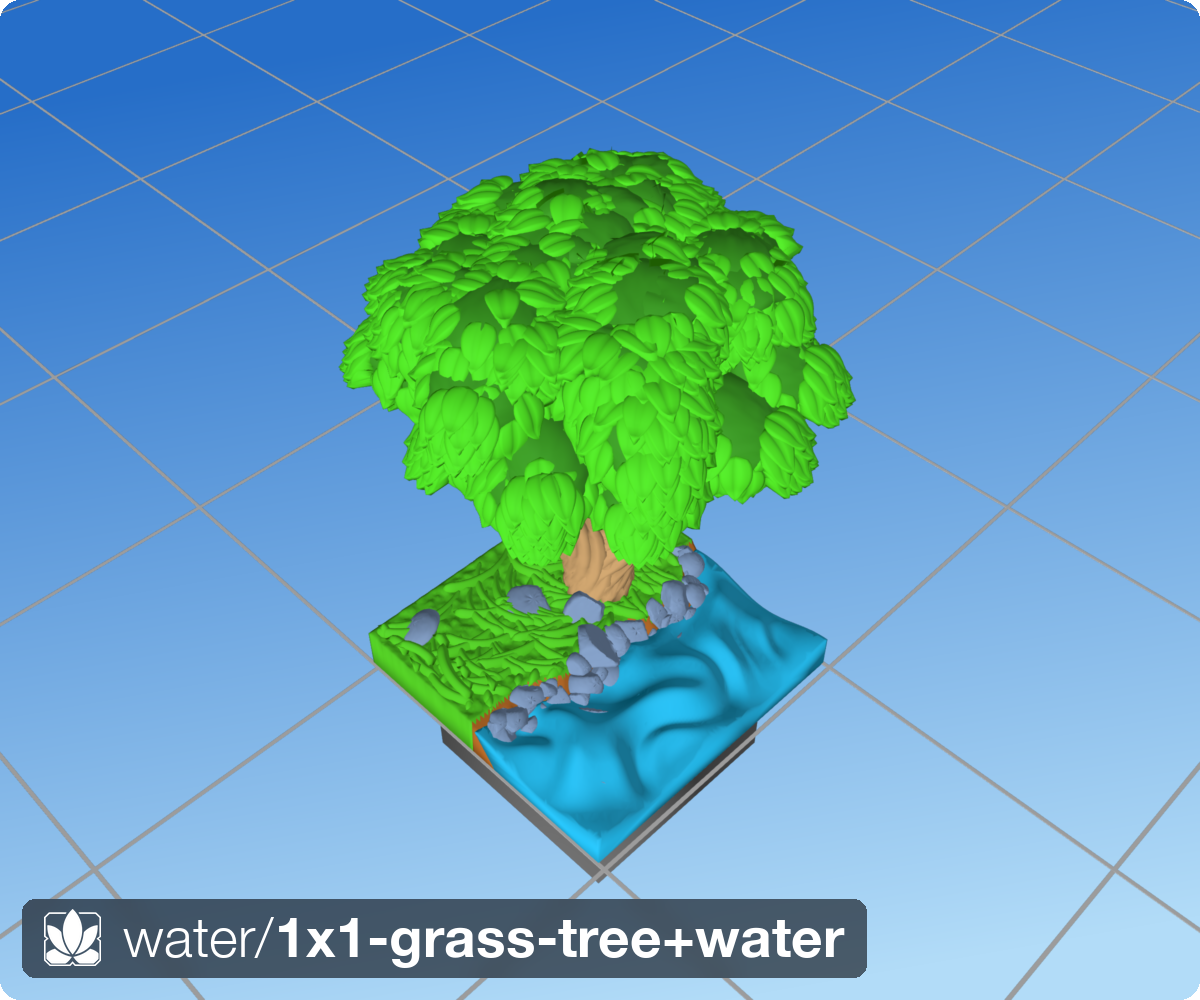
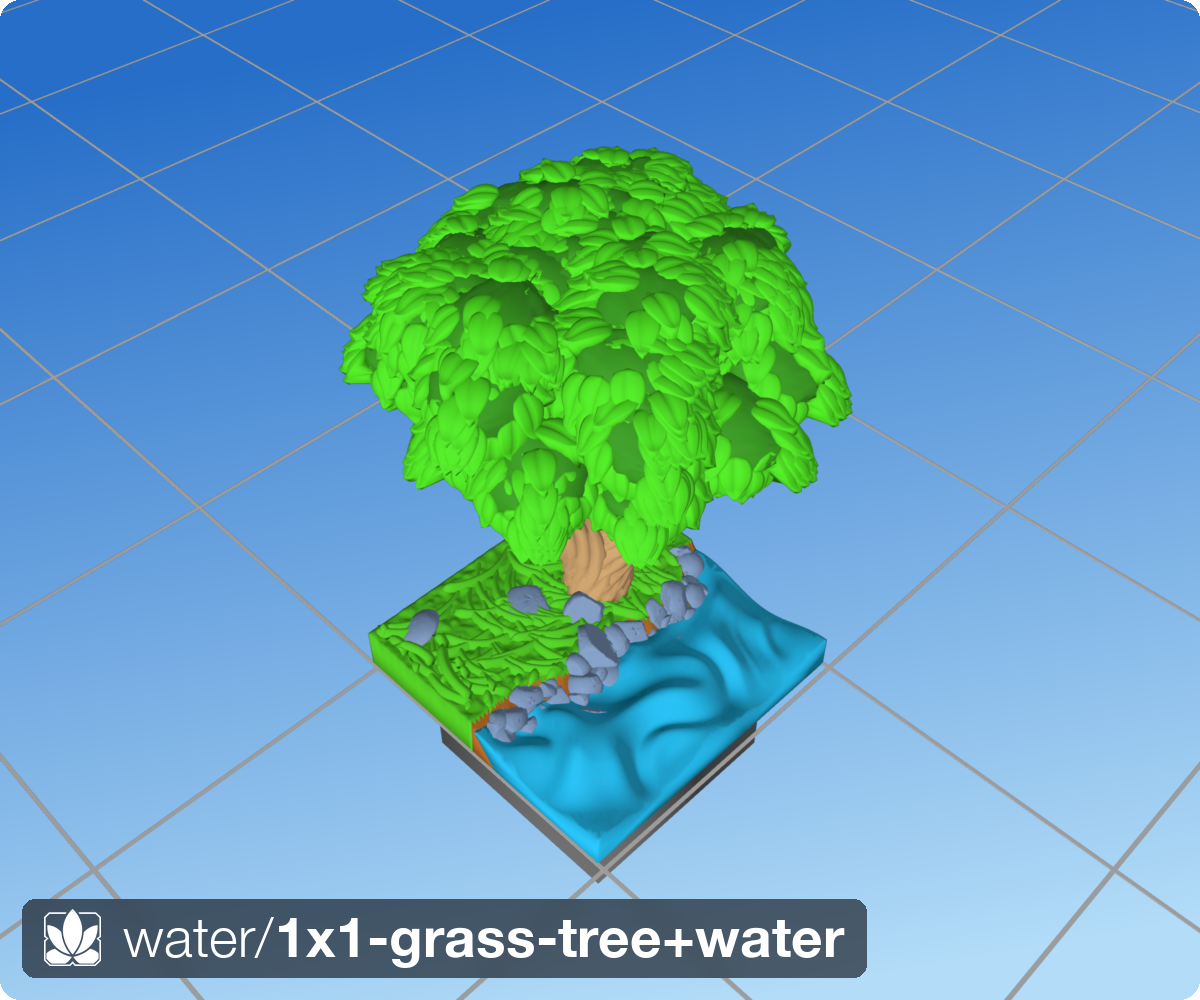
trees: fix apex over-coverage and add leaf-count diagnostic
- Reduce world-top supplemental leaf count from 20× to 1× leaf_cap_count
  (the main grid already covers the full circumference; the heavy multiplier
  was adding redundant leaves at the apex instead of filling gaps)
- Narrow structured cap leaf band from [0.70, 0.98] to [0.94, 0.98] so the
  cap covers only the true apex zone above near-apex rings and the main grid
- Cap per-ring column count by the natural circumference/col_step count to
  avoid over-packing near the apex where the ring radius is very small
- Add RuntimeWarning diagnostic when a foliage cluster generates < 3 leaves,
  to catch future coverage regressions early
- Update 1x1-grass-tree+water.png render

Changed region(s): [[0.2775, 0.124, 0.7092, 0.558]]

diff --git a/src/dharmatiles/trees/mesh.py b/src/dharmatiles/trees/mesh.py
@@ -1210,8 +1210,10 @@ def _build_foliage_cluster_mesh(
         # World-up crest fill.  Terminal foliage clumps are usually tilted,
         # while leaves droop toward world -Z; the visible top can be far from
         # the branch-axis dome pole, so it needs its own supplemental pass.
+        # Count is leaf_cap_count (not 20×) — the main grid already covers the
+        # full circumference, so only a light supplemental is needed here.
         top_angles = _structured_world_top_leaf_angles(
-            20 * max(0, int(leaf_cap_count)),
+            max(0, int(leaf_cap_count)),
             arc_lo=arc_lo,
             arc_hi=arc_hi,
             cone_end_arc=cone_end_arc,
@@ -1261,6 +1263,22 @@ def _build_foliage_cluster_mesh(
                 cluster_radius_mm=cluster_radius,
             )
 
+    # ── Leaf-count diagnostic ─────────────────────────────────────────────────
+    # Warn if a cluster that was supposed to emit leaves ends up with very few.
+    # A count < 3 on a non-trivial cluster is a signal of a coverage regression
+    # (bare-spot risk).  Use this to catch any future changes that thin the leaf
+    # passes too aggressively.
+    if leaves and leaf_base_count > 0 and leaf_length_mm > 1e-6 and leaf_width_mm > 1e-6:
+        if len(leaf_parts) < 3:
+            warnings.warn(
+                f"Foliage cluster edge_id={edge_id} generated only "
+                f"{len(leaf_parts)} leaf(ves) — possible bare-spot regression. "
+                f"(r_tip={r_tip:.2f} mm, clump_length={clump_length_mm:.1f} mm, "
+                f"leaf_cap_count={leaf_cap_count})",
+                RuntimeWarning,
+                stacklevel=2,
+            )
+
     result = trimesh.Trimesh(vertices=verts, faces=ico.faces.copy(), process=False)
     result.fix_normals()
     return result, leaf_parts
@@ -1279,9 +1297,10 @@ def _structured_cap_leaf_angles(
     """Return deterministic jittered-ring cap positions as ``(idx, phi, theta)``.
 
     ``phi`` is the forward-dome polar angle used by ``_dome_point`` where
-    ``pi/2`` is the apex.  The cap covers the same top 30% polar band as the
-    previous random sampler, but each leaf now owns a row/column cell and jitter
-    is clamped so it cannot cross into a neighbour's cell.
+    ``pi/2`` is the apex.  The cap covers the top 6% polar band [0.94, 0.98]·π/2 —
+    the true apex zone above the near-apex rings (0.86, 0.93) and the main grid
+    (whose last row center lands at phi≈0.72).  Each leaf owns a row/column cell
+    and jitter is clamped so it cannot cross into a neighbour's cell.
     """
     count = int(count)
     if count <= 0:
@@ -1290,7 +1309,12 @@ def _structured_cap_leaf_angles(
     r_tip = max(float(r_tip), 1e-6)
     pj = max(0.0, float(pos_jitter))
 
-    phi_min = 0.70 * (np.pi / 2.0)
+    # phi_min is set to 0.94 (not 0.70) so the cap covers only the true apex
+    # zone above the near-apex rings (phi=0.86, 0.93) and the main grid (whose
+    # last row center lands at phi≈0.72).  The old 0.70 start caused the cap
+    # to overlap both the main grid and the near-apex rings, adding redundant
+    # leaves in zones that are already covered.
+    phi_min = 0.94 * (np.pi / 2.0)
     phi_max = 0.98 * (np.pi / 2.0)
     band = phi_max - phi_min
 
@@ -1324,6 +1348,12 @@ def _structured_cap_leaf_angles(
 
     for ri, (phi_center, n_col) in enumerate(zip(row_phis, cols)):
         n_col = int(n_col)
+        # Cap n_col by the natural circumference/col_step count so we never
+        # pack leaves tighter than the h_overlap parameter implies, even when
+        # the ring radius is very small (near the apex).
+        rr_ring = max(float(r_tip) * float(np.cos(phi_center)), 1e-6)
+        natural_n_col = max(1, int(np.ceil(2.0 * np.pi * rr_ring / max(float(col_step), 1e-6))))
+        n_col = min(n_col, natural_n_col)
         theta_step = 2.0 * np.pi / n_col
         max_theta_jit = 0.45 * theta_step
         requested_theta_jit = pj * float(col_step) / max(r_tip * np.cos(phi_center), 1e-6)

diff --git a/docs/browser-python-viability.md b/docs/browser-python-viability.md
@@ -1,0 +1,171 @@
+# Browser-Based Python App Viability
+
+*Design exploration — 2026-06-24*
+
+## The Core Question
+
+Can dharmatiles (or a future project like it) be delivered as a web page that runs Python locally in the user's browser — no server, no install, just visit a URL?
+
+Short answer: **partially viable for dharmatiles today; fully viable for a new project designed for it.** The limiting factor is `manifold3d` and, to a lesser extent, `trimesh`.
+
+---
+
+## Technology Landscape
+
+### Pyodide
+
+CPython compiled to WebAssembly. Ships a curated package set (~250+ packages) that includes:
+
+- `numpy` ✓
+- `scipy` ✓
+- `Pillow` ✓
+- `pyyaml` ✓ (pure Python, loads fine)
+- `rich` ✓ (pure Python, terminal output would be suppressed in-browser anyway)
+
+Pyodide is the most mature approach and the one to default to. PyScript is a higher-level wrapper around Pyodide; it doesn't add capability, just ergonomics.
+
+### WebAssembly Constraints
+
+The browser sandbox limits what Python can do:
+
+- No OS-level filesystem. Files live in an in-memory virtual FS (Emscripten). The File System Access API (Chrome only) lets users grant folder access that gets mounted into that virtual FS.
+- No threads by default. `SharedArrayBuffer` (needed for real threads) requires COOP/COEP HTTP headers. Pyodide supports it if the server sets those headers, but most static hosts don't.
+- No subprocess. Can't call `openscad`, `prusa-slicer`, or any external binary.
+- Memory cap. Browser tabs get ~2–4 GB in practice. Large STL operations are fine; huge terrain grids might hit limits.
+
+---
+
+## Dharmatiles Dependency Audit
+
+| Package | Pyodide | Notes |
+|---|---|---|
+| `numpy` | ✓ | Core. Works fully. |
+| `scipy` | ✓ | Voronoi, spatial trees — all fine. |
+| `Pillow` | ✓ | Not heavily used; no issue. |
+| `pyyaml` | ✓ | No issue. |
+| `rich` | ✓ | Terminal colors will be no-ops; that's fine. |
+| `trimesh` | ✗ | **Not in Pyodide's package list.** Uses optional C extensions (rtree, pyembree) but the base install is mostly pure Python + numpy. May be loadable via micropip if a pure-Python-compatible wheel exists, or a vendored subset could be written. |
+| `manifold3d` | ✗ | **Hard blocker.** Native C++ extension, no WASM build exists. Used for OpenLOCK base CSG and the logo inset. |
+
+### What Works Without Those Two
+
+The entire core generation pipeline is pure Python + numpy + scipy:
+
+- Heightmap construction (`core/mesh.py`, `core/region.py`, `core/grid.py`)
+- Soil, grass carpet, water texture layers (`layers/`)
+- 3D grass field simulation (`grass/`)
+- Rock scatter (`scatter/`)
+- Tree skeleton + mesh (`trees/`)
+- DungeonBlocks base (`bases/dungeonblocks.py` — no manifold3d)
+
+The heightmap solid (`make_heightmap_solid`) produces a plain numpy mesh, which is then assembled via trimesh and exported. If trimesh is unavailable, you'd need a fallback STL writer — but writing binary STL from numpy arrays is trivial (~20 lines).
+
+**What breaks without manifold3d:**
+- OpenLOCK base (T-slot CSG)
+- Logo inset into the base
+
+**What breaks without trimesh:**
+- Mesh boolean operations (if used)
+- The trimesh.Trimesh assembly and STL export
+
+The trimesh dependency is softer: STL export is just packing numpy float32/int32 arrays into a 84-byte header + face records. A minimal in-browser STL writer could replace it.
+
+---
+
+## Architecture Options
+
+### Option A: Pure Pyodide (Browser-only)
+
+Load Pyodide, import numpy/scipy, run a stripped dharmatiles that skips manifold3d paths (OpenLOCK output only, no logo). Write a ~30-line STL writer to replace trimesh export.
+
+**What you get:** DungeonBlocks STL generation entirely in the browser, no server, works offline after first load.
+
+**What you lose:** OpenLOCK output, logo inset.
+
+**Effort:** Medium. The codebase would need to be importable without manifold3d/trimesh. Today it imports them at module load time in a few places. Wrapping those in `try/except ImportError` and providing a minimal STL writer would mostly do it.
+
+**Package load time:** Pyodide itself + numpy + scipy is ~20–40 MB. First load is slow (~5–15 seconds on good broadband). Subsequent loads are cached.
+
+### Option B: Pure Pyodide + Micropip trimesh
+
+`trimesh` is available on PyPI as a pure-Python-compatible package (the C extensions are optional). `micropip` (Pyodide's pip) can install pure-Python wheels at runtime.
+
+```python
+import micropip
+await micropip.install("trimesh")
+```
+
+If trimesh's PyPI wheel has no compiled dependencies (its core does not — it's numpy/scipy), this likely works. Worth testing directly.
+
+**Upside:** Closer to current codebase, less adaptation needed.
+**Downside:** trimesh wheel is ~15 MB; adds to load time.
+
+manifold3d remains blocked regardless — there is no WASM build.
+
+### Option C: Browser UI + Local Helper
+
+A small installed Python service (`dharmatiles-server`) exposes a `localhost:PORT` HTTP API. The web UI is a static page that sends generation requests to it and gets back an STL blob.
+
+```
+Browser (HTML/JS/CSS)
+  └── POST /generate { tile_spec: "..." }
+        └── dharmatiles-server (native Python, full capabilities)
+              └── returns STL bytes
+```
+
+**What you get:** Full current capabilities, no code changes, OpenLOCK + logo.  
+**What you lose:** The "no install" magic. User runs `pip install dharmatiles && dharmatiles-server`.  
+**Effort:** Low on the Python side (FastAPI in ~50 lines). Higher on the UI side (build a web frontend).
+
+This is the "browser butterfly on top, Python badger underneath" architecture from the ChatGPT conversation. It's pragmatic and probably the right choice if the UI is the goal rather than the zero-install delivery.
+
+### Option D: Desktop App Shell (Tauri/Electron)
+
+Package the web UI + Python backend together as a signed desktop app. Users download and install once; after that it behaves like a local app.
+
+- **Tauri** (Rust shell): lean, fast, native file dialogs. Python would run as a sidecar process.
+- **Electron**: heavier but well-trodden path.
+- **PyWebView**: Python-native, simpler model — Python is the host, WebView is the UI.
+
+For dharmatiles specifically, **PyWebView** might be the cleanest fit: Python process owns the generation, a WebView renders the UI, and `window.evaluate_js()` / `pywebview.api.generate()` bridges them. Total added dependency: `pywebview`.
+
+**Effort:** Medium. Requires a UI build (HTML/JS/CSS for the interface) but no architecture change to the generator.
+
+---
+
+## Viability Assessment for a Future New Project
+
+If you were designing a Python browser app from scratch, knowing these constraints:
+
+- **Choose pure-Python packages or those already in Pyodide's set.** numpy, scipy, shapely, Pillow, networkx, pandas — all fine.
+- **Avoid native C/C++ extensions without a WASM build.** manifold3d, pyembree, rtree, vtk — currently blocked.
+- **Use the Origin Private File System (OPFS) or File System Access API for persistence.** OPFS is universally available in modern browsers; the File System Access API (user-chosen folder) is Chrome/Edge-only.
+- **Design for async.** Pyodide can run in a Web Worker to keep the UI responsive during generation.
+
+A new procedural geometry tool designed this way (pure numpy/scipy mesh generation, custom STL export, no native CSG) would work beautifully in-browser.
+
+---
+
+## Recommendation
+
+**For dharmatiles now:** Option B (Pyodide + micropip trimesh) is worth a quick experiment — create a single `src/scripts/browser_demo.html` that imports Pyodide, installs trimesh via micropip, imports the generator (with manifold3d paths guarded), and exports a DungeonBlocks STL. If trimesh installs cleanly, you'd have a working in-browser DB generator in a day or two of adaptation work.
+
+**For a richer experience with full capabilities:** Option C (local helper) gets you a polished web UI talking to native Python, with zero capability loss. The web UI can be as fancy as you like while the backend stays exactly as it is.
+
+**For something you could ship to strangers:** Option D (PyWebView or Tauri desktop app) is the clearest path to a distributable tool. The user gets a native app experience; you get full Python. The gap between "a web page" and "a signed installable" is real friction, but it's a one-time hurdle for users.
+
+---
+
+## Quick Experiment Steps (Option B)
+
+To test Pyodide viability concretely:
+
+1. Create `src/scripts/browser_test.html` — a minimal Pyodide bootstrap.
+2. Load numpy + scipy + micropip, then `await micropip.install("trimesh")`.
+3. Add `dharmatiles` source to the virtual FS (pack into a JS object or load as a zip).
+4. Call `build_tile_from_spec()` on the simplest tile (`1x1-soil+grass`).
+5. Inspect whether trimesh installs and the generation completes.
+
+If it works, the main remaining tasks are: guard the manifold3d import, replace OpenLOCK with a stub or just skip it, and wire up the File System Access API for STL download.
+
+The load time penalty and Chrome-centric file access are real usability trade-offs. For a personal tool or a demo, that's fine. For something you'd share widely, the local helper or desktop app is more robust.
